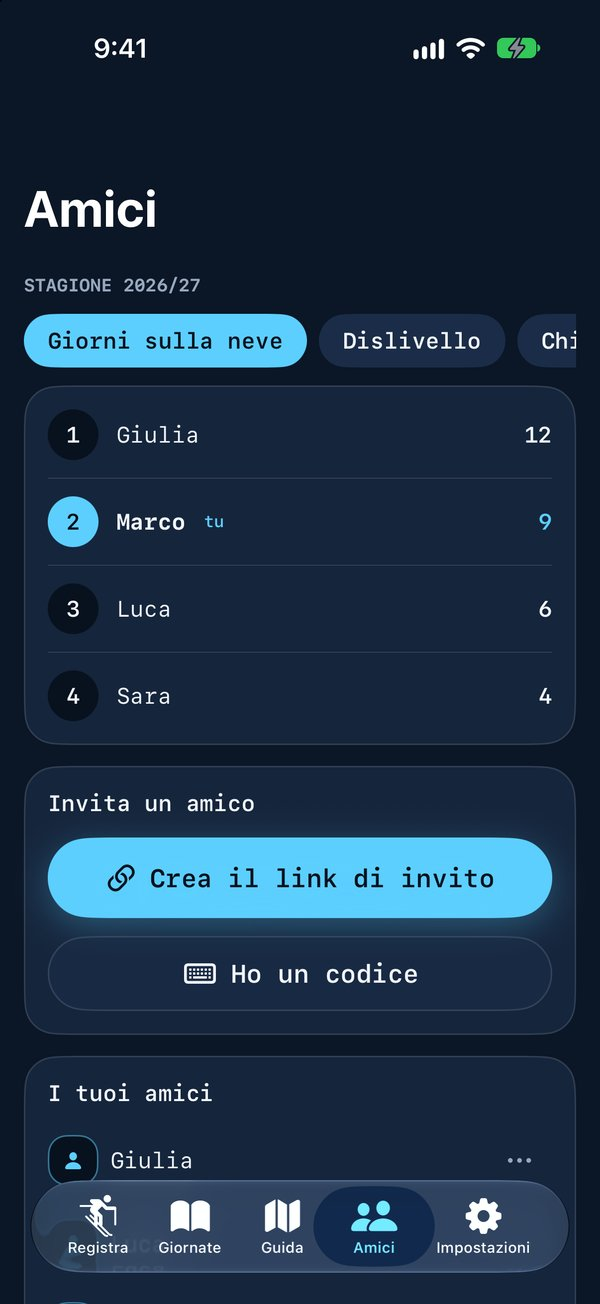
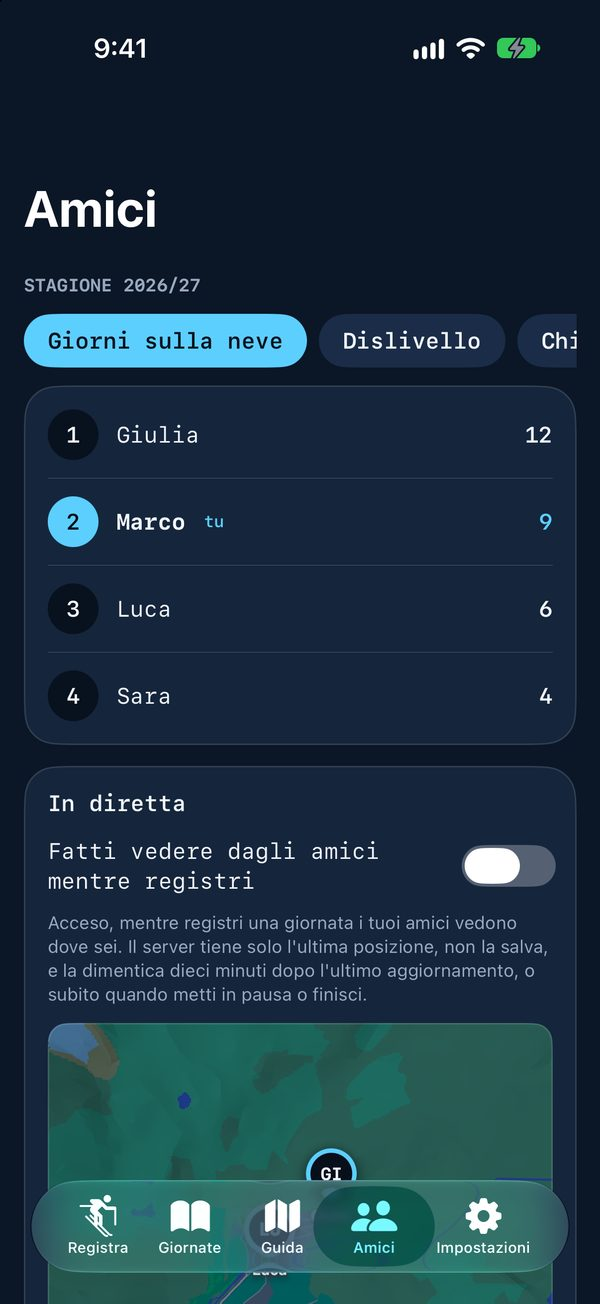
Pictures of the piste map, the looks and the light look in the README

Changed region(s): [[0.03, 0.6135, 0.93, 1.0], [0.9, 0.4601, 0.93, 0.4908]]

diff --git a/Sources/UI/ExploreView.swift b/Sources/UI/ExploreView.swift
@@ -242,7 +242,8 @@ struct ExploreView: View {
                     }
                 }
             }
-            .frame(maxHeight: 132)
+            // As tall as its steps, up to five of them: then it scrolls.
+            .frame(height: min(140, CGFloat(route.steps.count) * 28))
             Text("Tempi indicativi. Controlla sempre i cartelli e le piste aperte.")
                 .prose().font(.caption2).foregroundStyle(Theme.sub)
         }

diff --git a/README.md b/README.md
@@ -45,9 +45,12 @@ Premi **Inizia** ai piedi della pista, metti l'iPhone in tasca e scia. Ski Apex 
   <img src="docs/screenshots/iphone-replay.jpg" width="190" alt="Rivivi la giornata">
   <img src="docs/screenshots/iphone-stats.jpg" width="190" alt="Statistiche e record">
   <img src="docs/screenshots/iphone-guide.jpg" width="190" alt="La guida delle stazioni con la neve prevista">
+  <img src="docs/screenshots/iphone-explore.jpg" width="190" alt="La mappa delle piste con il percorso da un punto all'altro">
   <img src="docs/screenshots/iphone-heat.jpg" width="190" alt="La mappa di calore">
   <img src="docs/screenshots/iphone-friends.jpg" width="190" alt="La classifica con gli amici">
   <img src="docs/screenshots/iphone-share.jpg" width="190" alt="L'immagine da condividere">
+  <img src="docs/screenshots/iphone-looks.jpg" width="190" alt="I temi e le icone dell'app">
+  <img src="docs/screenshots/iphone-light.jpg" width="190" alt="Una giornata con il tema chiaro">
 </p>
 
 ### Installazione
